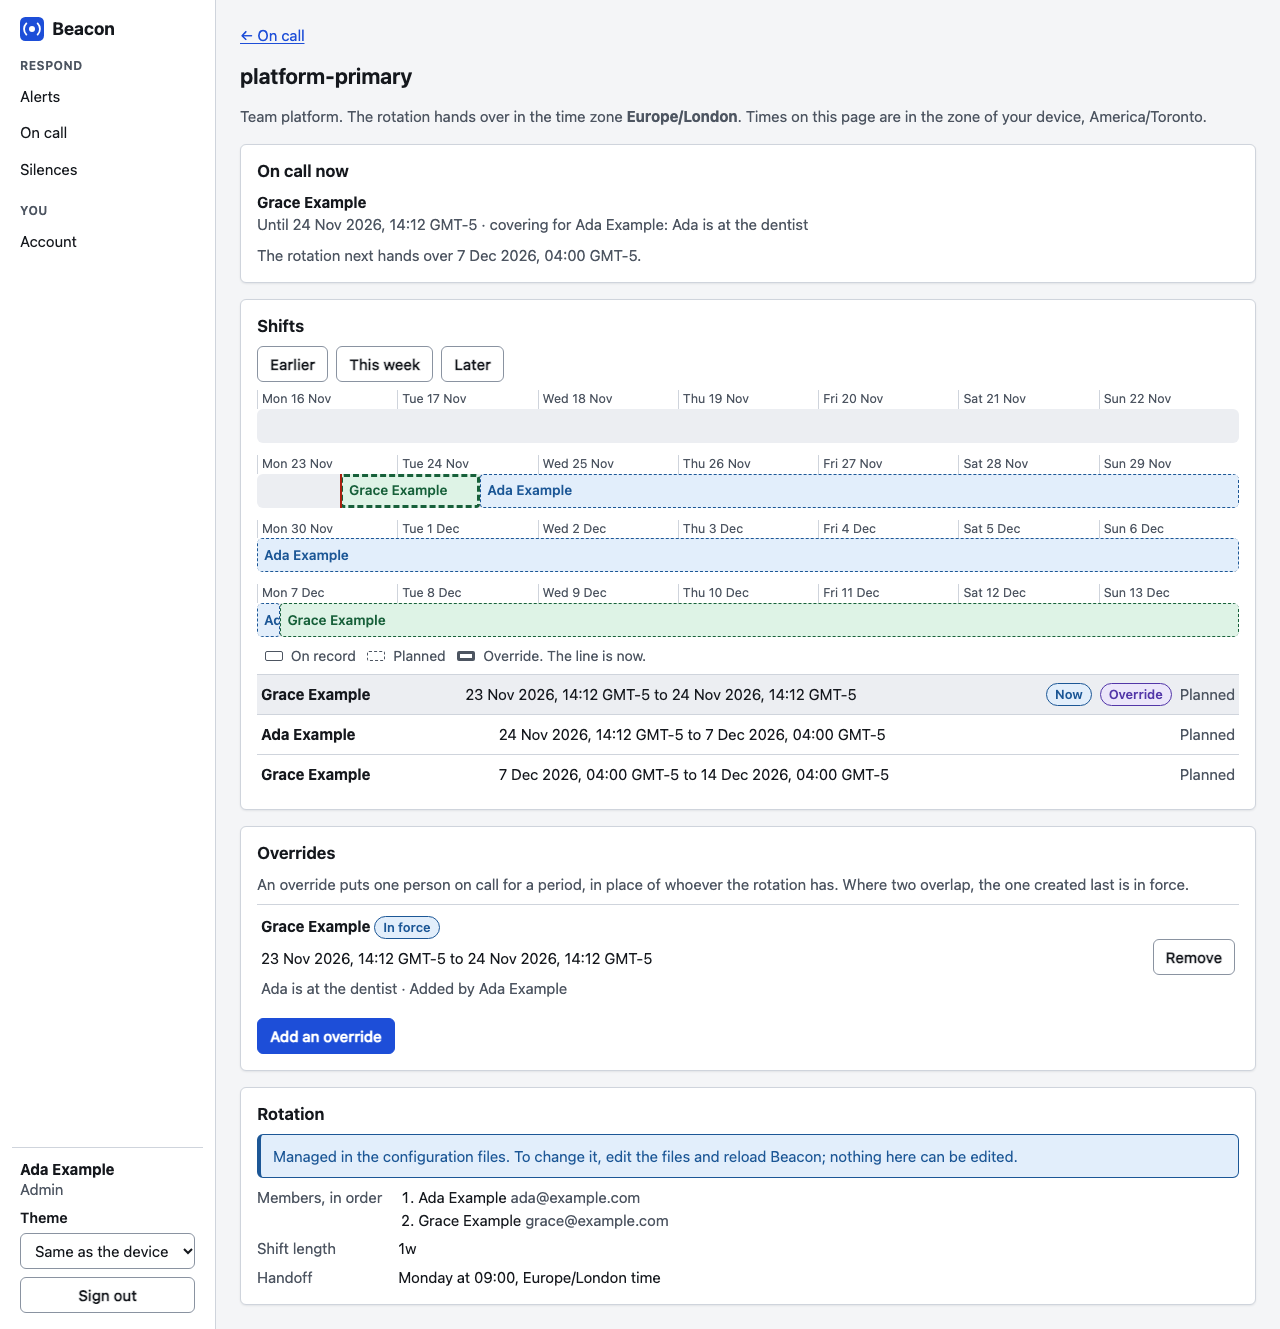
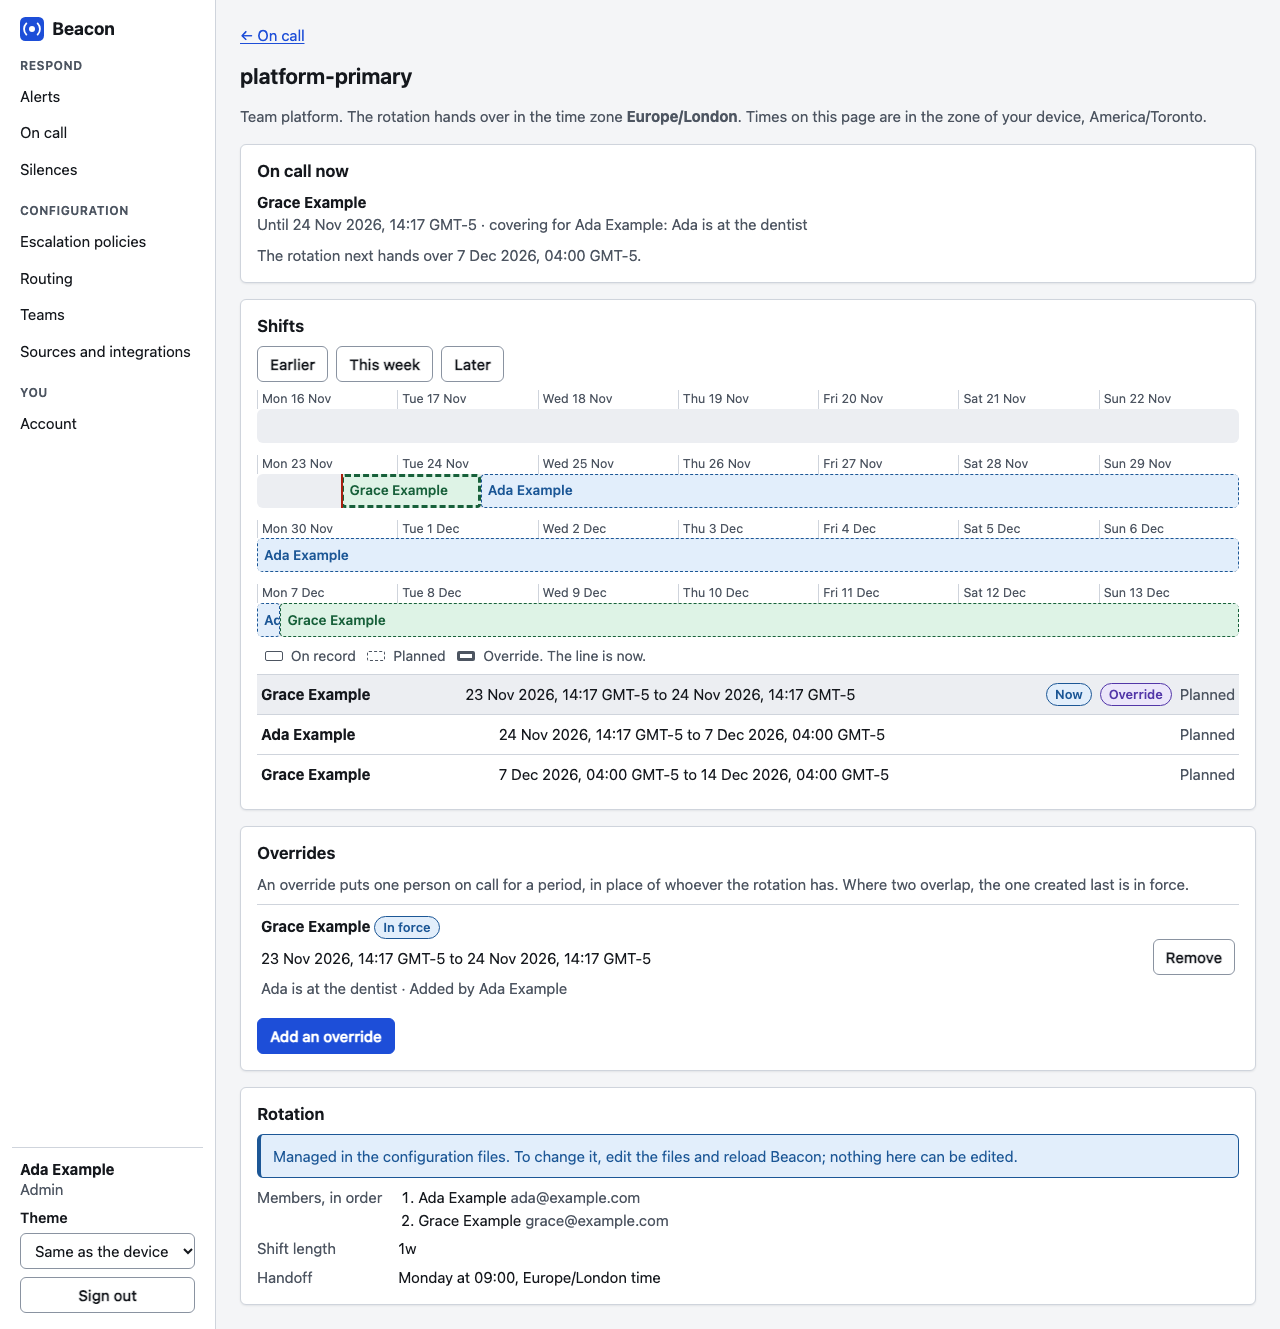
docs: describe the views of what the configuration defines
Closes #42

diff --git a/AGENTS.md b/AGENTS.md
@@ -6,7 +6,7 @@ Operational expectations for humans and AI agents working in this repository.
 
 Beacon is an open-source alerting and on-call platform. It takes alerts from Prometheus-style sources and gets them to the right on-call person, with schedules, escalation and acknowledgement in one tool that is easy to run.
 
-The project is at an early stage: provisioned objects are read from YAML files, people sign in through an OpenID Connect identity provider, alerts are received from Alertmanager, Grafana alerting or over a generic webhook, stored, routed by label, grouped and posted to the Slack channel of their escalation policy, where people can acknowledge, snooze and resolve them. Schedules run their rotations with overrides, and escalation policies page the person on call, teams and channels step by step until someone responds. The same works in Discord, where people link their accounts themselves, and alert groups are also sent as email and posted to outbound webhooks. The web interface is a single-page app in `web/`, embedded in the binary; people sign in to it and see and act on alerts there, and its other pages are being added. `docs/requirements.md` is the source of truth for what Beacon must do, which requirements are in the MVP, and the design decisions already made. Read it before proposing designs or writing code, and update it in the same PR when a decision changes.
+The project is at an early stage: provisioned objects are read from YAML files, people sign in through an OpenID Connect identity provider, alerts are received from Alertmanager, Grafana alerting or over a generic webhook, stored, routed by label, grouped and posted to the Slack channel of their escalation policy, where people can acknowledge, snooze and resolve them. Schedules run their rotations with overrides, and escalation policies page the person on call, teams and channels step by step until someone responds. The same works in Discord, where people link their accounts themselves, and alert groups are also sent as email and posted to outbound webhooks. The web interface is a single-page app in `web/`, embedded in the binary; people sign in to it, act on alerts, see who is on call, arrange overrides and silences, and read what the configuration defines. `docs/requirements.md` is the source of truth for what Beacon must do, which requirements are in the MVP, and the design decisions already made. Read it before proposing designs or writing code, and update it in the same PR when a decision changes.
 
 ## Tech stack
 
@@ -180,7 +180,7 @@ CI (`.github/workflows/ci.yml`) runs the build, lint, test and module checks on 
 - The app never works out who is on call: it shows `on_call` and the shifts the API answers, which already hold overrides and pending changes.
 - A form sends what was typed and lets the API judge it: the app does not repeat the API's rules. A refusal is shown with the API's message, and the field the API names is marked (`aria-invalid`). A change that takes something away, such as removing an override, asks first in a dialog.
 - The app never matches alerts against matchers by itself: the preview of a silence asks `POST /api/v1/silences/preview`, so that what is previewed is what will be silenced.
-- What the configuration defines is read-only in the app: such a view says that the object is managed in the configuration files and offers no control that changes it.
+- What the configuration defines is read-only in the app: such a view says that the object is managed in the configuration files and offers no control that changes it. Build one with `ConfigurationPage` (`web/src/pages/configuration/Shell.tsx`), and keep its test's `expectReadOnly`.
 - Everything is served from the binary: no fonts, scripts, images or requests to another host, and no telemetry.
 - Accessibility is part of done: semantic elements, a label for every control, a visible focus ring, text contrast of at least 4.5:1 in both themes, and a layout that works at 390 pixels. A new view gets `expectAccessible` in a browser test, which runs axe in both themes and at phone width.
 - Runtime dependencies are few on purpose (React, React DOM, React Router, TanStack Query, `openapi-fetch`). Adding one needs a reason in the PR. Versions are exact in `package.json`, and the lockfile is committed.

diff --git a/README.md b/README.md
@@ -10,7 +10,7 @@
 Beacon is an open-source alerting and on-call platform. It takes alerts from Prometheus-style sources and gets them to the right on-call person, with schedules, escalation and acknowledgement in one tool that is easy to run.
 
 > [!WARNING]
-> Beacon is at an early stage. It reads its [configuration](docs/configuration.md) from YAML files, signs people in through an [identity provider](docs/access.md), receives alerts from [Alertmanager](docs/alertmanager.md), [Grafana alerting](docs/grafana.md) and through a [JSON webhook](docs/webhook.md), tracks their [state](docs/alert-lifecycle.md), [routes](docs/configuration.md#how-an-alert-is-routed) them by label, [groups](docs/configuration.md#grouping) related alerts and [escalates](docs/escalation.md) each group through its policy: it pages the person on call, the team or a [Slack](docs/slack.md) or [Discord](docs/discord.md) channel, in chat and by [email](docs/email.md), and posts to an [outbound webhook](docs/outbound-webhook.md), step by step, until someone acknowledges, snoozes or resolves the alert from Slack or Discord, and it [attributes](docs/access.md#chat-accounts) those actions to the Beacon user behind the chat account. It runs [on-call rotations](docs/schedules.md), records every shift, takes [overrides](docs/schedules.md#overrides), answers [who is on call](docs/schedules.md#who-is-on-call) and [previews](docs/schedules.md#preview-a-change) what a change to a schedule would move. It has a [web interface](docs/web.md), embedded in the binary, where people sign in, watch the alerts and acknowledge, snooze and resolve them, see who is on call and the shifts of each schedule, arrange cover with overrides, and create and expire silences with a preview of what they match; the pages for what the configuration defines are being added to it. Neither chat integration has been tried against the real service. The [requirements](docs/requirements.md) describe what is planned.
+> Beacon is at an early stage. It reads its [configuration](docs/configuration.md) from YAML files, signs people in through an [identity provider](docs/access.md), receives alerts from [Alertmanager](docs/alertmanager.md), [Grafana alerting](docs/grafana.md) and through a [JSON webhook](docs/webhook.md), tracks their [state](docs/alert-lifecycle.md), [routes](docs/configuration.md#how-an-alert-is-routed) them by label, [groups](docs/configuration.md#grouping) related alerts and [escalates](docs/escalation.md) each group through its policy: it pages the person on call, the team or a [Slack](docs/slack.md) or [Discord](docs/discord.md) channel, in chat and by [email](docs/email.md), and posts to an [outbound webhook](docs/outbound-webhook.md), step by step, until someone acknowledges, snoozes or resolves the alert from Slack or Discord, and it [attributes](docs/access.md#chat-accounts) those actions to the Beacon user behind the chat account. It runs [on-call rotations](docs/schedules.md), records every shift, takes [overrides](docs/schedules.md#overrides), answers [who is on call](docs/schedules.md#who-is-on-call) and [previews](docs/schedules.md#preview-a-change) what a change to a schedule would move. It has a [web interface](docs/web.md), embedded in the binary, where people sign in, watch the alerts and acknowledge, snooze and resolve them, see who is on call and the shifts of each schedule, arrange cover with overrides, create and expire silences with a preview of what they match, and read what the configuration defines: escalation policies, routing, teams, sources and integrations. Neither chat integration has been tried against the real service. The [requirements](docs/requirements.md) describe what is planned.
 
 ## What Beacon will do
 

diff --git a/docs/web.md b/docs/web.md
@@ -30,11 +30,13 @@ The page offers the ways to sign in that the configuration has ([[access]]): the
 | On call | Who is on call now, for every schedule, team by team |
 | A schedule | Who is on call, the shifts of four weeks at a time, past and to come, its overrides, with the ways to add and remove one, and the rotation as the files define it |
 | Silences | The silences in force and to come, and on request the expired ones; a form for a new one, with a preview of the open alerts it matches; and the way to expire one |
+| Escalation policies | Each policy step by step: whom it notifies, how long it waits, how often it starts again |
+| Routing | The rules in the order they are tried, with their conditions, team, service, policy and grouping, and the default route |
+| Teams | Who belongs to each team and why, its identity provider groups and its schedules; for admins, the listed people who are not users yet |
+| Sources and integrations | Where alerts come from and where notifications go, without any credential |
 | Account | Who you are signed in as, your role, and until when the session lasts |
 
-The pages for the rest of what the configuration defines follow; this page grows with them.
-
-What the configuration files define is read-only in the app, as in the API: it is changed in the files ([[configuration]]).
+What the configuration files define is read-only in the app, as in the API: it is changed in the files ([[configuration]]). Every such page says so at its top, and has nothing that can be pressed or typed into.
 
 ## Alerts
 
@@ -90,6 +92,16 @@ Members and admins alike add and remove overrides, for themselves and for others
 **Expire** ends a silence now, after asking: Beacon then tells about the alerts it was keeping quiet that still fire. A silence cannot be edited; expire it and create another.
 
 Members and admins alike create and expire silences, including ones that someone else created.
+
+## What the configuration defines
+
+![An escalation policy](images/web/escalation-policies-light.png)
+
+Under **Configuration** the app shows what is active now, which is what the files said at the last start or reload ([[configuration#Reload without a restart]]): the escalation policies ([[escalation]]), the routing rules in the order they are tried ([[configuration#How an alert is routed]]), the teams, and the sources and integrations. Names link to each other: a step to the schedule it pages, a rule to its team and policy, a team to its schedules. No credential is shown, because the API answers none ([[api#What the configuration defines]]).
+
+![The teams, as an admin sees them](images/web/teams-light.png)
+
+A team lists the people who belong to it now and why: listed in the files, in a group of the identity provider, or both ([[configuration#Team membership]]). **An admin also sees the addresses that the files list and that no user has**, because the person has not signed in yet: such a person is not in the team, and is not notified with it, until their first sign-in. Members do not see them; the API does not answer them to a member.
 
 ## Look and use
 
